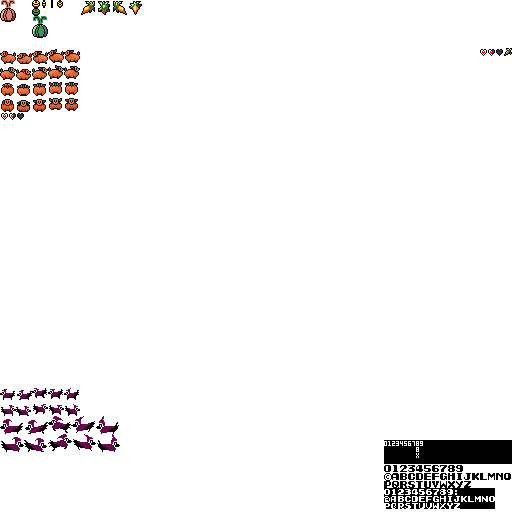
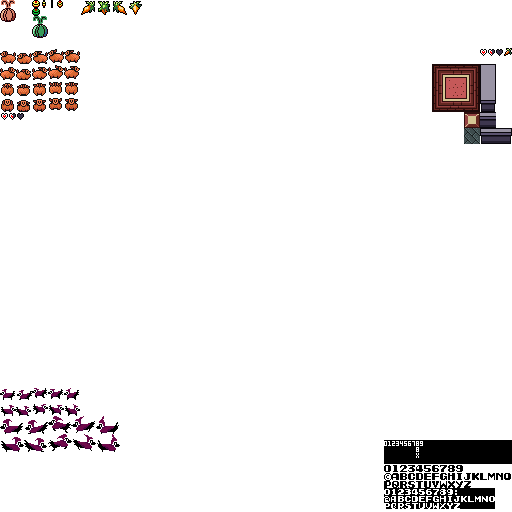
Add files via upload

Changed region(s): [[0.8438, 0.125, 1.0, 0.2812]]

diff --git a/TileAndLevel.js b/TileAndLevel.js
@@ -1,17 +1,122 @@
-var levelData = [
+/*
+ 0 = empty
+ 1 = wall
+ 2 = path
+*/
 
+var levelData = [
+	[ //world 1
+		[//level 1
+			"1111110220111111",
+			"1100000220000111",
+			"1100000220000111",
+			"1000000022000001",
+			"1100111002200000",
+			"1100111000222222",
+			"1000000000022222",
+			"1000000000000000",
+			"1000000000000011",
+			"1111111111111111",
+			"red_castle"
+		],
+		[//level 1
+			"",
+			"",
+			"",
+			"",
+			"",
+			"",
+			"",
+			"",
+			"",
+			""
+		]
+	]
 
 
 
 
 ];
 
-class Tile extends Sprite{
-	
-}
+
+	class Tile extends Sprite{
+		constructor(x,y,costumeName,solid) {
+			super();
+			this.moveTo(x,y);
+			this.setSize(16,16);
+			this.costumeName = costumeName;
+			this.solid = solid;
+			this.setCurrentCostume();
+		}
+	}
 
 class Level {
+	
+	tilePosCoords = [[0,0],[1,0],[2,0],[0,1],[1,1],[2,1],[0,2],[1,2],[2,2],[3,0],[3,0],[3,0],[3,0],[3,0],[3,0]];
+	tileCode = [ "0011","1011","1001","0111","1111","1101","0110","1110","1100" ];
+	tileCostume = "";
+
+
 	constructor(world,level) { //worlds = spaces currently in use. A single dungeon, overworld map, cave system, etc. Levels = screens.
 		this.currentLevel = levelData[world][level];
+		this.theme = this.getTheme(); //temporary- fix later
+		this.tiles = [];
+		this.numsLikeWalls = "1"; //which types of objects are treated as walls in getCostumeName();
+		
+		
+		var lvlThemes = [];
+	}
+	
+	getTheme = function() {
+		return this.currentLevel[10];
+	}
+	addTileCostume = function () {
+		
+	}
+
+	addTheme = function(name,tlx,tly) {
+		this.lvlThemes.push([name,tlx,tly]);
+		for (let i = 0; i < 25; i++) {
+			addTileCostume("name_" + (i % 5) + (Math.floor(i / 5)),tlx + (i%5 * 16),tly + (Math.floor(i/5)));
+		}
+	}
+
+	getCostumeName = function(row,col) {
+		if (this.currentLevel[row][col] == 1) {
+			return this.theme + "_19"
+			let code = ""; //4 digit binary code to determine surrounding blocks
+			code += (col == 0 || this.numsLikeWalls.includes(this.currentLevel[row][col - 1])); //left
+			code += (row == 0 || this.numsLikeWalls.includes(this.currentLevel[row - 1][col])); //up
+			code += (col == this.currentLevel[row].length - 1 || this.numsLikeWalls.includes(this.currentLevel[row][col + 1])); //right
+			code += (col == this.currentLevel.length - 1 || this.numsLikeWalls.includes(this.currentLevel[row + 1][col])); //down
+				
+			if (this.tileCode.includes(code)) {
+				
+			}
+			
+			return + this.tileCode.indexOf(code );
+		}
+		
+		return this.theme + "_24";
+	}
+	
+	init = function() {
+		console.log("level.init()");
+		for (let row = 0; row < 10; row++) {
+			for (let col = 0; col < 16; col++) {
+				if (this.currentLevel[row][col] == 1) {
+					this.tiles.push(new Tile(row * 16 + game.window.tly,col * 16,));
+					this.tiles[this.tiles.length - 1].addCostume(this.getCostumeName(row,col));
+				}
+			}
+		}
+	}
+	
+	drawTiles = function() {
+		for (let i = 0; i < this.tiles.length; i++) {
+			this.tiles[i].draw();
+		}
 	}
 }
+
+var level = new Level(0,0);

diff --git a/sprites.js b/sprites.js
@@ -20,6 +20,8 @@ class Sprite { //an assumption this class makes is that all costumes will be the
 	animations = [];
 	dead = false;
 	hitbox = {"tly":this.y,"w":this.width,"h":this.height}; //used so that the player's head can peep in front of walls sometimes
+	visible = true;
+	solid = false; //if true, MovingSprites can't overlap with it
 	
 	constructor() {
 		
@@ -44,6 +46,9 @@ class Sprite { //an assumption this class makes is that all costumes will be the
 	};
 	
 	draw = function() {
+		if (!this.visible) {
+			return;
+		}
 		this.flip = (this.xv < 0 && this.flipsHorizontally);
 		if (this.animationActive == -1) {
 			drawImgFromAtlas(this.currentCostume.name,this.currentCostume.sx,this.currentCostume.sy,this.width,this.height,this.x,this.y,this.width * this.size,this.height * this.size,this.flip);
@@ -158,6 +163,7 @@ class MovingSprite extends Sprite {
 		this.maxhp = 3;
 		this.invincible = false;
 		this.invisFrameTick = 0;
+		this.invisLength = 45; //how many frames you're invincible after taking damage. 45 / 30fps = 1.5 seconds.
 	}
 	
 	// HEALTH CODE //////////////////////////////////////
@@ -179,7 +185,7 @@ class MovingSprite extends Sprite {
 			}
 			else {
 				this.invincible = true;
-				this.invisFrameTick = 45; //how many frames you're invincible after taking damage. 45 / 30fps = 1.5 seconds.
+				this.invisFrameTick = this.invisLength;
 			}
 		}
 	}

diff --git a/player.js b/player.js
@@ -21,6 +21,8 @@ class Player extends MovingSprite {
 		this.addAnimation("up_walk",16,80,16,16,4,2);
 		this.addAnimation("down_walk",16,96,16,16,4,2);
 		this.setCurrentCostume("right_walk_0");
+		this.visible = true;
+		this.invisLength = 60;
 		
 	}
 	
@@ -75,11 +77,23 @@ class Player extends MovingSprite {
 
 	}
 	
-	
+	invisFrames = function() {
+		if (this.invincible) {
+			if (this.invisFrameTick < 20) {
+				this.visible = (this.invisFrameTick % 3 == 0);
+			} else {
+				this.visible = (this.invisFrameTick % 10 < 5);
+			}
+		}
+		else {
+			this.visible = true;
+		}
+	}
 	
 	process = function() {
 		//console.log("player.process() called");
 		this.tick();
+		this.invisFrames();
 		this.healthProcess();
 		this.keyInput();
 		this.checkBounds();

diff --git a/main.js b/main.js
@@ -17,6 +17,10 @@ function init() {
 			break;
 		case "game":
 			saveFile.erase();
+			coins.coins = [];
+			enemies.enemies = [];
+			
+			//from here to the next comment, everything is temporary.
 			coins.addCoin(new Coin(200,100,1));
 			coins.addCoin(new Coin(24,150,1));
 			enemies.addEnemy(new JumpingKaidi(240,100));
@@ -25,6 +29,7 @@ function init() {
 			addAtlas("onion_green",32,16,16,32);
 			UI.init();
 			player = new Player();
+			level.init();
 			break;
 		case "gameOver":
 			deathScreen = new DeathScreen();
@@ -58,6 +63,7 @@ function draw() {
 			
 			break;
 		case "game":
+			level.drawTiles();
 			enemies.draw();
 			drawImgFromAtlas("onion_green",0,50);
 			drawImgFromAtlas("onion_green",mouseX,mouseY);

diff --git a/index.html b/index.html
@@ -39,7 +39,6 @@
 	
 	
 	<!--Parts of the game-->
-	<script src="TileAndLevel.js"></script>
 	<script src="Enemy.js"></script>
 	<script src="player.js"></script>
 	<script src="Coin.js"></script>
@@ -48,6 +47,7 @@
 	
 	
 	<script src="Variables.js"></script>
+	<script src="TileAndLevel.js"></script>
 	<script src="CollisionHandler.js"></script>
 	
 	<script src="main.js"></script>

diff --git a/general.js b/general.js
@@ -65,7 +65,9 @@ function drawImg(name,x,y,width,height,direction) {
 }
 
 function addAtlas(costumeName,x,y,w,h) {
-	atlasData.push([costumeName,x,y,w,h]);
+	if (!atlasData.includes([costumeName,x,y,w,h])) {
+		atlasData.push([costumeName,x,y,w,h]);
+	}
 }
 
 function clearScreen() {

diff --git a/CollisionHandler.js b/CollisionHandler.js
@@ -30,9 +30,14 @@ class CollisionHandler {
 		}
 	}
 	
+	playerWall = function() {
+		
+	}
+	
 	process = function() {
 		this.playerCoin();
 		this.playerEnemy();
+		this.playerWall();
 	}
 }
 
